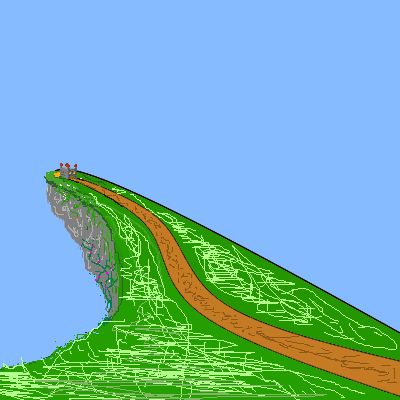
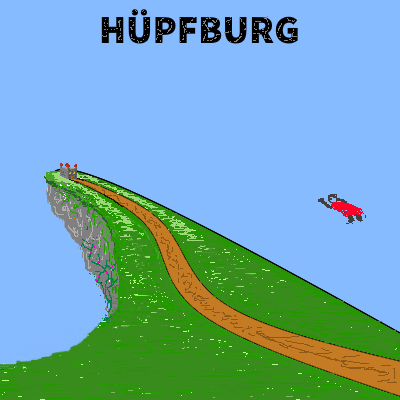
hintergrund bei menu eingefügt und menue sowie spiel zentriert

diff --git a/Hauptmenue.java b/Hauptmenue.java
@@ -16,7 +16,6 @@ public class Hauptmenue extends JFrame implements ActionListener
     private JButton einstellungen;
     private JButton info;
     private JButton ende;
-    private JLabel spieltitel;
     private int screenWidthMiddle;
     private int screenHeightMiddle;
     private boolean istSpielGestartet=false;
@@ -34,14 +33,15 @@ public class Hauptmenue extends JFrame implements ActionListener
         setLayout(null);
         setVisible(true);
         
-        
-        // spieltitel = new JLabel("Hüpfburg-2D");
-        // add(spieltitel);
+        ImageIcon background_image=new ImageIcon("src/pics/menu hintergrund.png");
+        JLabel background = new JLabel("",background_image,JLabel.CENTER);
+        background.setBounds(0,0,400,400);
+        add(background);
         
             //Buttons
         //SpielStart-Button
         start = new JButton("Spiel Starten");
-        start.setBounds(buttonX, 150 + buttonYVerschiebung, 120, 30);
+        start.setBounds(buttonX, 50 + buttonYVerschiebung, 140, 40);
         start.setBackground(new Color(0,0,0,255));
         start.setForeground(new Color(255,255,255,255));
         add(start);
@@ -49,7 +49,7 @@ public class Hauptmenue extends JFrame implements ActionListener
         
         //Einstellungen-Button
         einstellungen = new JButton("Einstellungen");
-        einstellungen.setBounds(buttonX, 200 + buttonYVerschiebung, 120, 30);
+        einstellungen.setBounds(buttonX, 130 + buttonYVerschiebung, 140, 40);
         einstellungen.setBackground(new Color(0,0,0,255));
         einstellungen.setForeground(new Color(255,255,255,255));
         add(einstellungen);
@@ -57,7 +57,7 @@ public class Hauptmenue extends JFrame implements ActionListener
         
         //Spielanleitung-Button
         info = new JButton("Spielanleitung");
-        info.setBounds(buttonX, 250 + buttonYVerschiebung, 120, 30);
+        info.setBounds(buttonX, 210 + buttonYVerschiebung, 140, 40);
         info.setBackground(new Color(0,0,0,255));
         info.setForeground(new Color(255,255,255,255));
         add(info);
@@ -66,7 +66,7 @@ public class Hauptmenue extends JFrame implements ActionListener
         //Beenden-Button
         ende = new JButton("Beenden");
         ende.setPreferredSize(new Dimension(10,20));
-        ende.setBounds(buttonX, 300 + buttonYVerschiebung, 120, 30);
+        ende.setBounds(buttonX, 290 + buttonYVerschiebung, 140, 40);
         ende.setBackground(new Color(0,0,0,255));
         ende.setForeground(new Color(255,255,255,255));
         add(ende);
